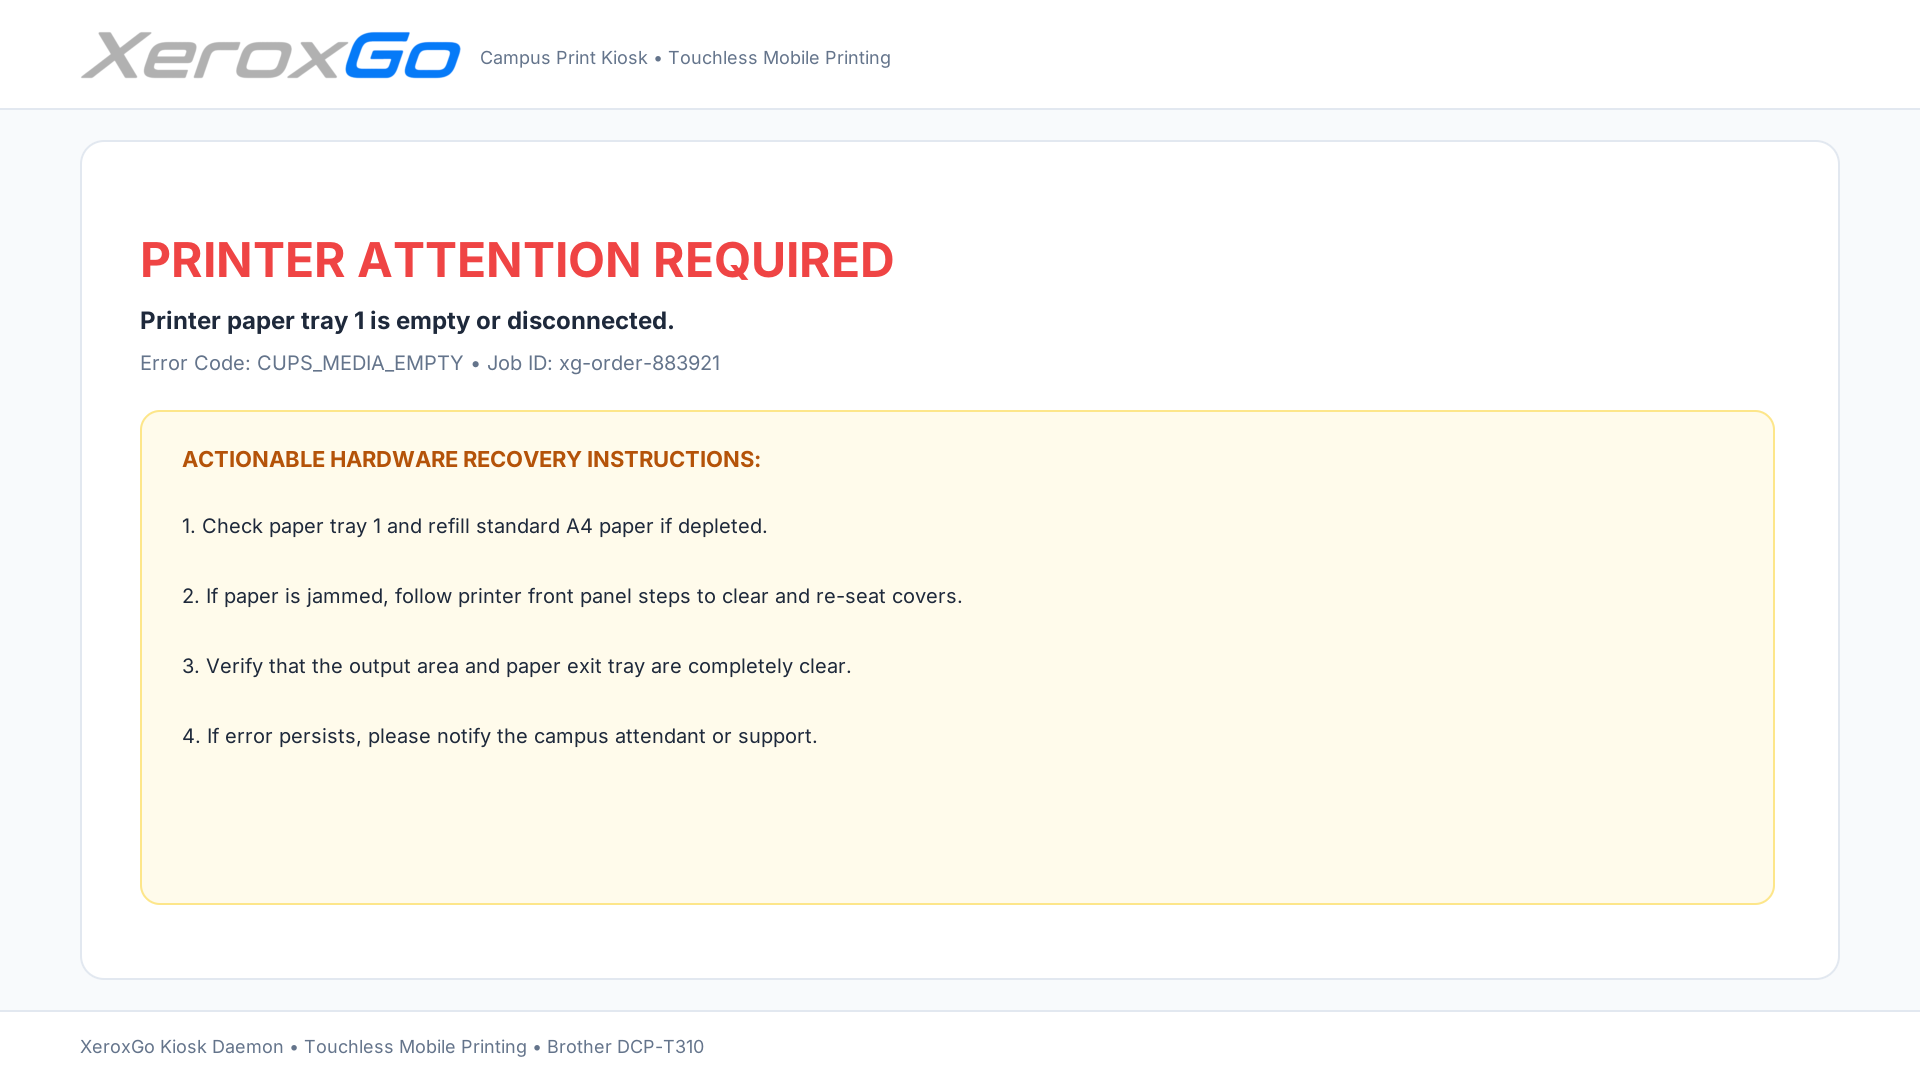
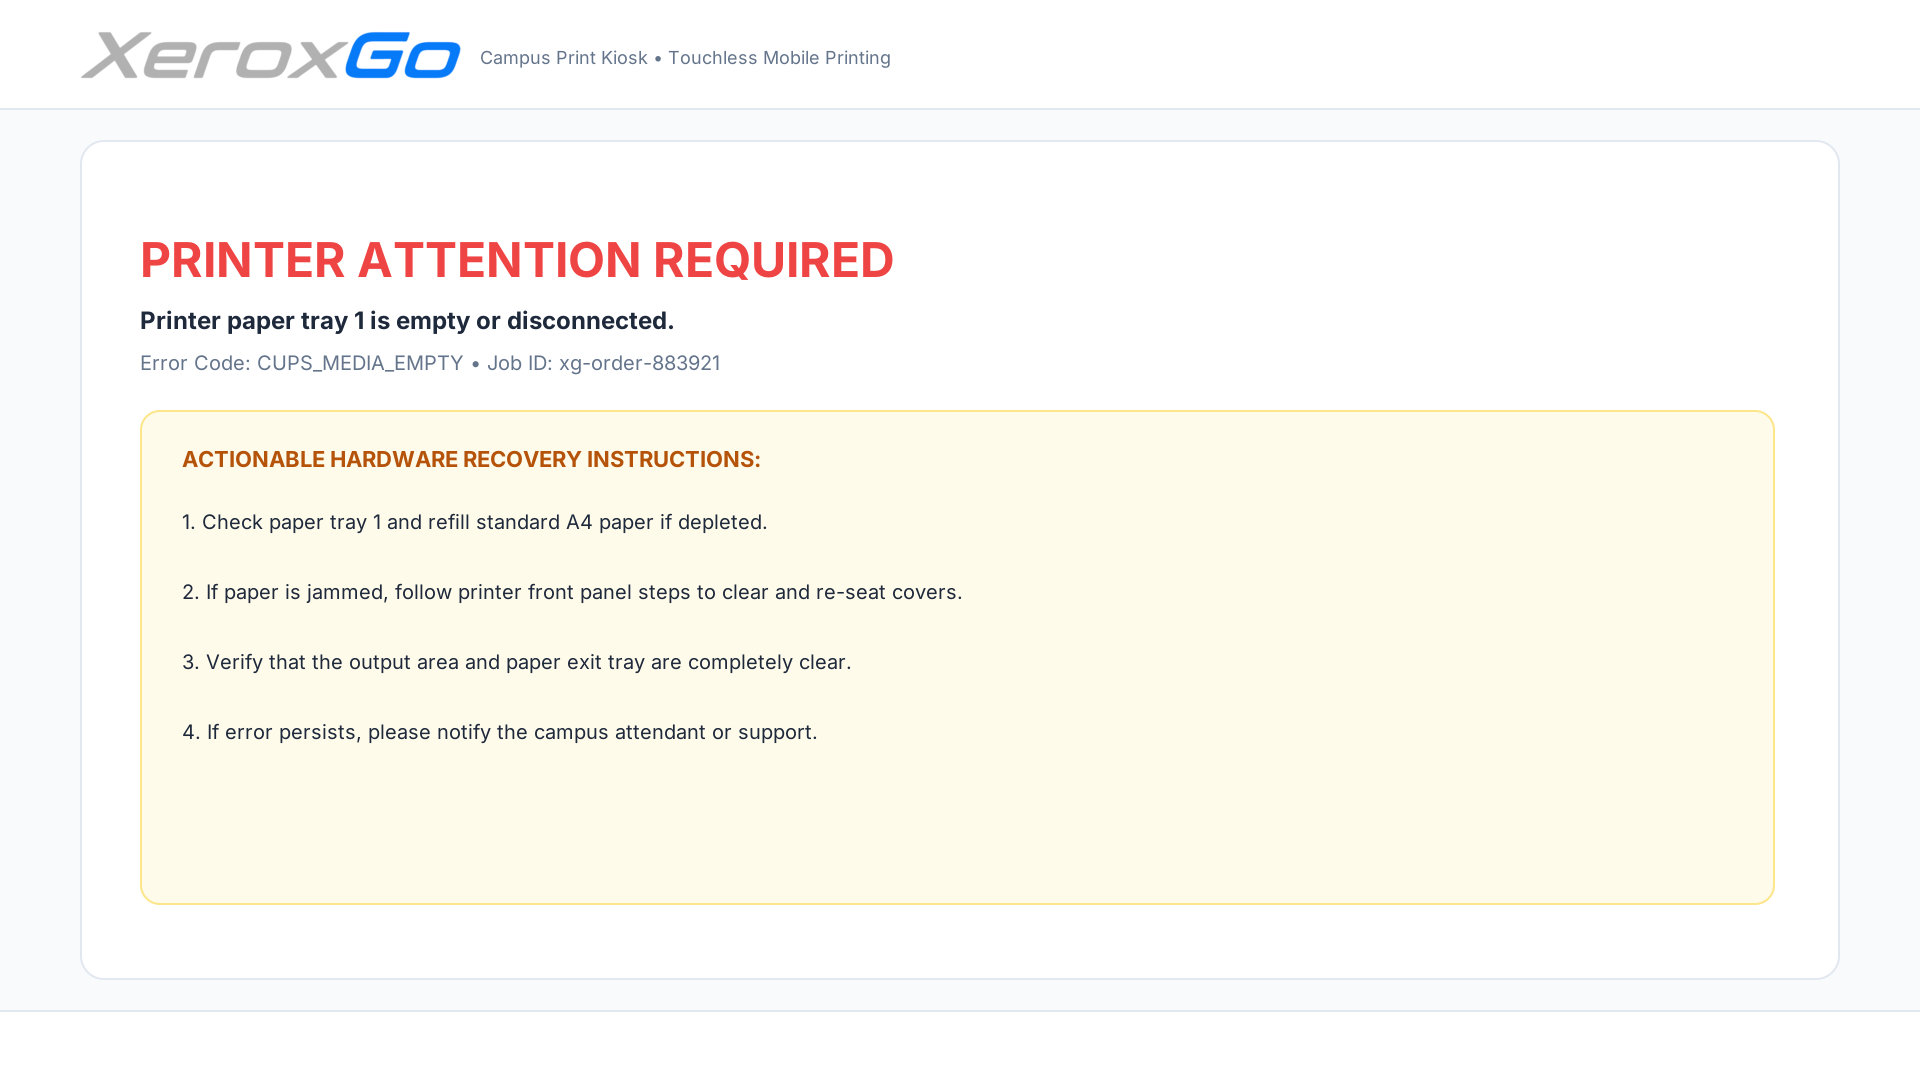
feat(kiosk): enforce exact Figma SVG edits across all screens

diff --git a/kiosk-daemon/internal/ui_ipc/renderer.go b/kiosk-daemon/internal/ui_ipc/renderer.go
@@ -120,11 +120,15 @@ func Render(state ScreenState) (*image.RGBA, error) {
 	// 3. Footer bar (1010 to 1080)
 	fillRect(canvas, image.Rect(0, 1010, ScreenWidth, ScreenHeight), colorCardBg)
 	fillRect(canvas, image.Rect(0, 1010, ScreenWidth, 1012), colorBorder)
-	modelStr := "Brother HL-L5210DN"
-	if state.PrinterModel != "" {
-		modelStr = state.PrinterModel
+
+	// Clean footer: in user-edited designs, footer text is only shown during active printing
+	if state.Mode == ModePrinting {
+		modelStr := "Brother HL-L5210DN"
+		if state.PrinterModel != "" {
+			modelStr = state.PrinterModel
+		}
+		drawText(canvas, faceReg18, "XeroxGo Kiosk Daemon • Touchless Mobile Printing • "+modelStr, 80, 1035, colorTextSecondary)
 	}
-	drawText(canvas, faceReg18, "XeroxGo Kiosk Daemon • Touchless Mobile Printing • "+modelStr, 80, 1035, colorTextSecondary)
 
 	// 4. Mode-specific content
 	switch state.Mode {
@@ -196,10 +200,10 @@ func renderIdle(dst *image.RGBA, state ScreenState) error {
 	fillRoundedRect(dst, rightCard, 24, colorCardBg)
 	strokeRoundedRect(dst, rightCard, 24, 2, colorBorder)
 
-	// Title
-	qrTitle := "POINT PHONE CAMERA"
-	qrTitleW := measureTextWidth(faceBold24, qrTitle)
-	drawText(dst, faceBold24, qrTitle, rightCard.Min.X+(rightCard.Dx()-qrTitleW)/2, 175, colorTextPrimary)
+	// Headline above QR code
+	qrTitle := "Scan with any phone to open your personal print portal"
+	qrTitleW := measureTextWidth(faceReg18, qrTitle)
+	drawText(dst, faceReg18, qrTitle, rightCard.Min.X+(rightCard.Dx()-qrTitleW)/2, 172, colorTextPrimary)
 
 	// QR Code Generation
 	qrBytes, err := qrcode.Encode(state.QRContent, qrcode.Medium, 400)
@@ -211,21 +215,16 @@ func renderIdle(dst *image.RGBA, state ScreenState) error {
 		return fmt.Errorf("failed to decode QR PNG: %w", err)
 	}
 
-	// White backing rect around QR code
-	qrBacking := image.Rect(1370, 215, 1790, 635)
-	fillRoundedRect(dst, qrBacking, 16, color.RGBA{R: 255, G: 255, B: 255, A: 255})
-	strokeRoundedRect(dst, qrBacking, 16, 2, colorBorder)
-
-	// Draw decoded QR image centered in right card
-	qrBounds := image.Rect(1380, 225, 1780, 625)
+	// QR code is placed directly on the card without extra border box
+	qrBounds := image.Rect(1380, 210, 1780, 610)
 	draw.Draw(dst, qrBounds, qrImg, image.Point{}, draw.Src)
 
 	// Action pill under QR
-	pillRect := image.Rect(1350, 645, 1810, 705)
+	pillRect := image.Rect(1350, 597, 1808, 657)
 	drawPill(dst, pillRect, colorPillBlueBg, colorPillBlueBorder)
 	pillText := "Instant Web App • No Install Needed"
 	pillW := measureTextWidth(faceBold20, pillText)
-	drawText(dst, faceBold20, pillText, pillRect.Min.X+(pillRect.Dx()-pillW)/2, 665, colorPrimaryBlue)
+	drawText(dst, faceBold20, pillText, pillRect.Min.X+(pillRect.Dx()-pillW)/2, 617, colorPrimaryBlue)
 
 	// 4 Numbered Steps
 	steps := []struct {
@@ -235,21 +234,21 @@ func renderIdle(dst *image.RGBA, state ScreenState) error {
 	}{
 		{"1", "Point camera at the QR code", false},
 		{"2", "Upload document & choose options", false},
-		{"3", "Pay with instant UPI", false},
-		{"4", "Collect prints from the tray", true},
+		{"3", "Pay securely with instant UPI", false},
+		{"4", "Collect prints from the output tray", true},
 	}
-	yStep := 725
-	for _, s := range steps {
+	ySteps := []int{692, 750, 808, 867}
+	for i, s := range steps {
+		y := ySteps[i]
 		circleCol := colorPrimaryBlue
 		if s.isLast {
 			circleCol = colorSuccessGreen
 		}
-		drawCircle(dst, 1385, yStep+15, 16, circleCol)
+		drawCircle(dst, 1404, y+14, 15, circleCol)
 		numW := measureTextWidth(faceBold18, s.num)
-		drawText(dst, faceBold18, s.num, 1385-numW/2, yStep+5, colorTextWhite)
+		drawText(dst, faceBold18, s.num, 1404-numW/2, y+4, colorTextWhite)
 
-		drawText(dst, faceBold20, s.title, 1415, yStep+4, colorTextPrimary)
-		yStep += 58
+		drawText(dst, faceBold20, s.title, 1440, y+4, colorTextPrimary)
 	}
 
 	return nil
@@ -274,8 +273,8 @@ func renderDownloading(dst *image.RGBA, state ScreenState) {
 		drawText(dst, faceReg18, state.Detail, 160, 393, colorPrimaryBlue)
 	}
 
-	// Progress Bar matching gate test bounds: (140, 500, 1700, 550)
-	drawProgressBar(dst, 140, 500, 1560, 50, state.ProgressPercent, 100, colorPrimaryBlue)
+	// Progress Bar matching edited SVG bounds: (140, 500, 1787, 550)
+	drawProgressBar(dst, 140, 500, 1647, 50, state.ProgressPercent, 100, colorPrimaryBlue)
 
 	pctText := fmt.Sprintf("Download Progress: %d%%", state.ProgressPercent)
 	drawText(dst, faceBold24, pctText, 140, 580, colorTextPrimary)
@@ -380,7 +379,7 @@ func renderError(dst *image.RGBA, state ScreenState) {
 		"3. Verify that the output area and paper exit tray are completely clear.",
 		"4. If error persists, please notify the campus attendant or support.",
 	}
-	yR := 513
+	yR := 509
 	for _, step := range recoverySteps {
 		drawText(dst, faceReg20, step, 182, yR, colorTextPrimary)
 		yR += 70

diff --git a/kiosk-daemon/internal/ui_ipc/renderer_test.go b/kiosk-daemon/internal/ui_ipc/renderer_test.go
@@ -97,8 +97,8 @@ func TestRenderIdleQRCode(t *testing.T) {
 		t.Fatalf("invalid canvas bounds: %v", img.Bounds())
 	}
 
-	// QR code is drawn at (1380, 225, 1780, 625)
-	qrBounds := image.Rect(1380, 225, 1780, 625)
+	// QR code is drawn at (1380, 210, 1780, 610)
+	qrBounds := image.Rect(1380, 210, 1780, 610)
 	darkCount := 0
 	lightCount := 0
 
